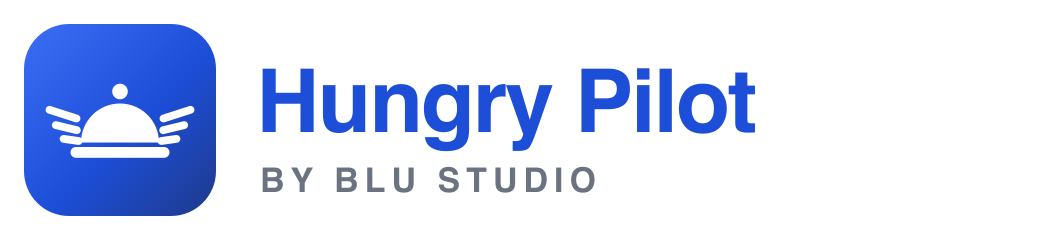
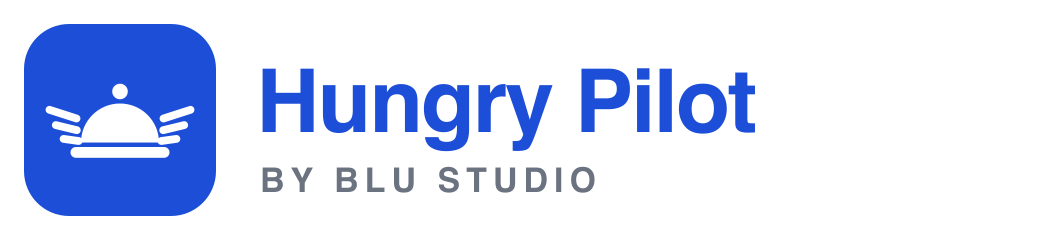
Replace all gradients with flat colours
Buttons, the POS cart button, the logo tile and the accent swatches now use
the solid accent colour, and the ambient glows behind every page and on the
login, signup and landing pages are gone. The brand SVGs are flat Royal Blue
and every raster icon (favicon, PWA, Windows MSIX, CasaOS, README lockup) was
re-rendered from them.

Changed region(s): [[0.0923, 0.4083, 0.2154, 0.9042], [0.0, 0.0875, 0.0923, 0.2917]]

diff --git a/apps/web/app/globals.css b/apps/web/app/globals.css
@@ -189,7 +189,6 @@
   --border: #D5D9E0;
   --input: #C5CBD3;
   --ring: var(--acc);
-  --gradient-primary: linear-gradient(135deg, var(--acc) 0%, color-mix(in oklab, var(--acc) 82%, #000) 100%);
   --glow-primary: color-mix(in oklab, var(--acc) 50%, transparent);
   /* Explicit system fallbacks so the kiosk never renders in a serif face if the
      bundled web font is unavailable (offline start-up, blocked fonts CDN). */
@@ -275,19 +274,16 @@
    (rounded-*, bg-*, shadow-*) on a component still win over it — unlayered
    rules would silently beat every utility class.
    --------------------------------------------------------------------------- */
-/* The primary gradient only ever darkens from the accent (never lightens), so
-   button text keeps the contrast checked for the flat colour; the inset
-   highlight on buttons supplies the sheen instead. */
+/* Flat colour throughout: buttons and surfaces use the solid accent, no
+   gradients. Only the shadows pick up a faint tint of the accent. */
 :root {
   --shadow-card: 0 1px 2px rgb(17 24 39 / 0.04), 0 8px 24px -12px color-mix(in oklab, var(--acc) 12%, transparent);
   --shadow-card-hover: 0 2px 4px rgb(17 24 39 / 0.05), 0 16px 32px -14px color-mix(in oklab, var(--acc) 22%, transparent);
-  --gradient-primary: linear-gradient(135deg, var(--acc) 0%, color-mix(in oklab, var(--acc) 82%, #000) 100%);
   --glow-primary: color-mix(in oklab, var(--acc) 50%, transparent);
 }
 .dark {
   --shadow-card: 0 1px 2px rgb(0 0 0 / 0.4), 0 10px 28px -14px rgb(0 0 0 / 0.6);
   --shadow-card-hover: 0 2px 4px rgb(0 0 0 / 0.45), 0 18px 36px -14px color-mix(in oklab, var(--acc-d) 18%, transparent);
-  --gradient-primary: linear-gradient(135deg, color-mix(in oklab, var(--acc-d) 88%, #fff) 0%, var(--acc-d) 55%, color-mix(in oklab, var(--acc-d) 85%, var(--acc)) 100%);
   --glow-primary: color-mix(in oklab, var(--acc-d) 35%, transparent);
 }
 
@@ -296,10 +292,6 @@
     -webkit-font-smoothing: antialiased;
     text-rendering: optimizeLegibility;
     font-feature-settings: "cv11", "ss01";
-  }
-  body {
-    background-image: radial-gradient(60rem 28rem at 100% -10%, color-mix(in oklab, var(--primary) 4%, transparent), transparent 60%);
-    background-attachment: fixed;
   }
   h1, h2, h3 {
     letter-spacing: -0.015em;
@@ -352,7 +344,6 @@
   }
   [data-slot="button"][data-variant="default"],
   button[data-slot="button"].bg-primary {
-    background-image: var(--gradient-primary);
     box-shadow: 0 1px 0 rgb(255 255 255 / 0.18) inset, 0 6px 14px -6px var(--glow-primary);
     transition: filter 150ms ease, transform 150ms ease, box-shadow 150ms ease;
   }

diff --git a/apps/web/lib/theme/accents.ts b/apps/web/lib/theme/accents.ts
@@ -3,16 +3,16 @@
 // picker UI and validates what's read back from localStorage. Every accent was
 // checked for WCAG AA (>= 4.5:1) as button text and as text on white/dark.
 export const ACCENTS = [
-  { id: "royal", label: "Royal Blue", from: "#60A5FA", to: "#1D4ED8" },
-  { id: "crimson", label: "Crimson Red", from: "#F87171", to: "#C8102E" },
-  { id: "gold", label: "Golden Yellow", from: "#FACC15", to: "#A16207" },
-  { id: "emerald", label: "Emerald Green", from: "#34D399", to: "#047857" },
-  { id: "hotpink", label: "Hot Pink", from: "#F472B6", to: "#D61F69" },
-  { id: "purple", label: "Royal Purple", from: "#A78BFA", to: "#6D28D9" },
-  { id: "teal", label: "Ocean Teal", from: "#2DD4BF", to: "#0F766E" },
-  { id: "orange", label: "Tangerine", from: "#FB923C", to: "#C2410C" },
-  { id: "wine", label: "Burgundy", from: "#FB7185", to: "#9F1239" },
-  { id: "graphite", label: "Midnight", from: "#71717A", to: "#18181B" },
+  { id: "royal", label: "Royal Blue", swatch: "#1D4ED8" },
+  { id: "crimson", label: "Crimson Red", swatch: "#C8102E" },
+  { id: "gold", label: "Golden Yellow", swatch: "#A16207" },
+  { id: "emerald", label: "Emerald Green", swatch: "#047857" },
+  { id: "hotpink", label: "Hot Pink", swatch: "#D61F69" },
+  { id: "purple", label: "Royal Purple", swatch: "#6D28D9" },
+  { id: "teal", label: "Ocean Teal", swatch: "#0F766E" },
+  { id: "orange", label: "Tangerine", swatch: "#C2410C" },
+  { id: "wine", label: "Burgundy", swatch: "#9F1239" },
+  { id: "graphite", label: "Midnight", swatch: "#18181B" },
 ] as const;
 
 export type AccentId = (typeof ACCENTS)[number]["id"];

diff --git a/apps/web/components/layout/logo.tsx b/apps/web/components/layout/logo.tsx
@@ -1,7 +1,7 @@
 import { cn } from "@/lib/utils";
 
 // Hungry Pilot mark: a serving cloche with pilot wings. The tile paints with
-// the active accent's gradient, so the mark follows the theme picker; the
+// the active accent colour, so the mark follows the theme picker; the
 // static PNG/ICO icons (favicon, PWA, Windows, CasaOS) are rendered from
 // public/brand/hungry-pilot-mark.svg in Royal Blue.
 export function Logo({ className, size = 32 }: { className?: string; size?: number }) {
@@ -14,8 +14,7 @@ export function Logo({ className, size = 32 }: { className?: string; size?: numb
         width: size,
         height: size,
         borderRadius: (size * 15) / 64,
-        backgroundImage:
-          "linear-gradient(135deg, color-mix(in oklab, var(--acc) 82%, #fff), var(--acc) 55%, color-mix(in oklab, var(--acc) 75%, #000))",
+        backgroundColor: "var(--acc)",
       }}
     >
       <svg viewBox="0 0 64 64" width={size} height={size} aria-hidden fill="none">

diff --git a/apps/web/components/marketing/hero.tsx b/apps/web/components/marketing/hero.tsx
@@ -12,11 +12,6 @@ const words = ["Restaurant", "software", "you", "actually", "own."];
 export function Hero() {
   return (
     <section className="relative overflow-hidden px-4 pt-20 pb-24 sm:px-6 sm:pt-28">
-      {/* Ambient gradient glow — transform/opacity only, no layout cost */}
-      <div
-        aria-hidden
-        className="pointer-events-none absolute inset-x-0 top-0 -z-10 h-[560px] bg-[radial-gradient(60%_50%_at_50%_0%,color-mix(in_oklch,var(--primary),transparent_88%),transparent)]"
-      />
 
       <div className="mx-auto flex max-w-4xl flex-col items-center text-center">
         <motion.div

diff --git a/apps/web/components/providers/accent-provider.tsx b/apps/web/components/providers/accent-provider.tsx
@@ -25,8 +25,8 @@ export function AccentProvider({ children }: { children: React.ReactNode }) {
   const setAccent = useCallback((next: AccentId) => {
     document.documentElement.setAttribute("data-accent", next);
     const meta = document.querySelector('meta[name="theme-color"]');
-    const swatch = ACCENTS.find((a) => a.id === next);
-    if (meta && swatch) meta.setAttribute("content", swatch.to);
+    const entry = ACCENTS.find((a) => a.id === next);
+    if (meta && entry) meta.setAttribute("content", entry.swatch);
     try {
       localStorage.setItem(ACCENT_STORAGE_KEY, next);
     } catch {

diff --git a/apps/web/app/signup/page.tsx b/apps/web/app/signup/page.tsx
@@ -36,10 +36,6 @@ export default function SignupPage() {
 
   return (
     <main className="relative flex flex-1 items-center justify-center overflow-hidden bg-background px-4 py-10">
-      <div
-        aria-hidden
-        className="pointer-events-none absolute inset-x-0 top-0 -z-10 h-[420px] bg-[radial-gradient(50%_50%_at_50%_0%,color-mix(in_oklch,var(--primary),transparent_90%),transparent)]"
-      />
       <motion.div
         initial={prefersReducedMotion ? false : { opacity: 0, y: 14 }}
         animate={{ opacity: 1, y: 0 }}

diff --git a/apps/web/app/(dashboard)/pos/page.tsx b/apps/web/app/(dashboard)/pos/page.tsx
@@ -344,7 +344,6 @@ function PosPageInner() {
           type="button"
           onClick={() => setCartOpen(true)}
           className="fixed inset-x-3 bottom-[calc(4.5rem+env(safe-area-inset-bottom))] z-30 flex h-14 items-center justify-between rounded-2xl bg-primary px-4 text-primary-foreground shadow-lg active:scale-[0.98] lg:hidden"
-          style={{ backgroundImage: "var(--gradient-primary)" }}
         >
           <span className="flex items-center gap-2 text-sm font-semibold">
             <ShoppingCart className="h-5 w-5" />

diff --git a/apps/web/app/login/page.tsx b/apps/web/app/login/page.tsx
@@ -52,10 +52,6 @@ export default function LoginPage() {
 
   return (
     <main className="relative flex flex-1 items-center justify-center overflow-hidden bg-background px-4">
-      <div
-        aria-hidden
-        className="pointer-events-none absolute inset-x-0 top-0 -z-10 h-[420px] bg-[radial-gradient(50%_50%_at_50%_0%,color-mix(in_oklch,var(--primary),transparent_90%),transparent)]"
-      />
       <motion.div
         initial={prefersReducedMotion ? false : { opacity: 0, y: 14 }}
         animate={{ opacity: 1, y: 0 }}

diff --git a/apps/web/components/layout/theme-picker.tsx b/apps/web/components/layout/theme-picker.tsx
@@ -53,7 +53,7 @@ export function ThemePicker() {
               <span
                 aria-hidden
                 className="h-4 w-4 shrink-0 rounded-full ring-1 ring-foreground/10"
-                style={{ backgroundImage: `linear-gradient(135deg, ${a.from}, ${a.to})` }}
+                style={{ backgroundColor: a.swatch }}
               />
               {a.label}
             </DropdownMenuRadioItem>

diff --git a/DESIGN_SYSTEM.md b/DESIGN_SYSTEM.md
@@ -52,7 +52,8 @@ Emerald Green, Hot Pink, Royal Purple, Ocean Teal, Tangerine, Burgundy and
 Midnight. Each accent is four raw values in `apps/web/app/globals.css`
 (`--acc`, `--acc-fg` for light mode; `--acc-d`, `--acc-d-fg` for dark), and
 every themed token — primary, ring, sidebar highlight, chart-1, the soft
-`--accent` tint, card shadows, the button gradient — is derived from them.
+`--accent` tint, card shadows — is derived from them. Everything is a flat
+colour; the UI uses no gradients.
 Every pair is checked for WCAG AA (>= 4.5:1) both as button text and as text
 on white/dark surfaces, which is why "yellow" is a deep gold in light mode.
 To add an accent: add its four values under `:root[data-accent="<id>"]`, add
